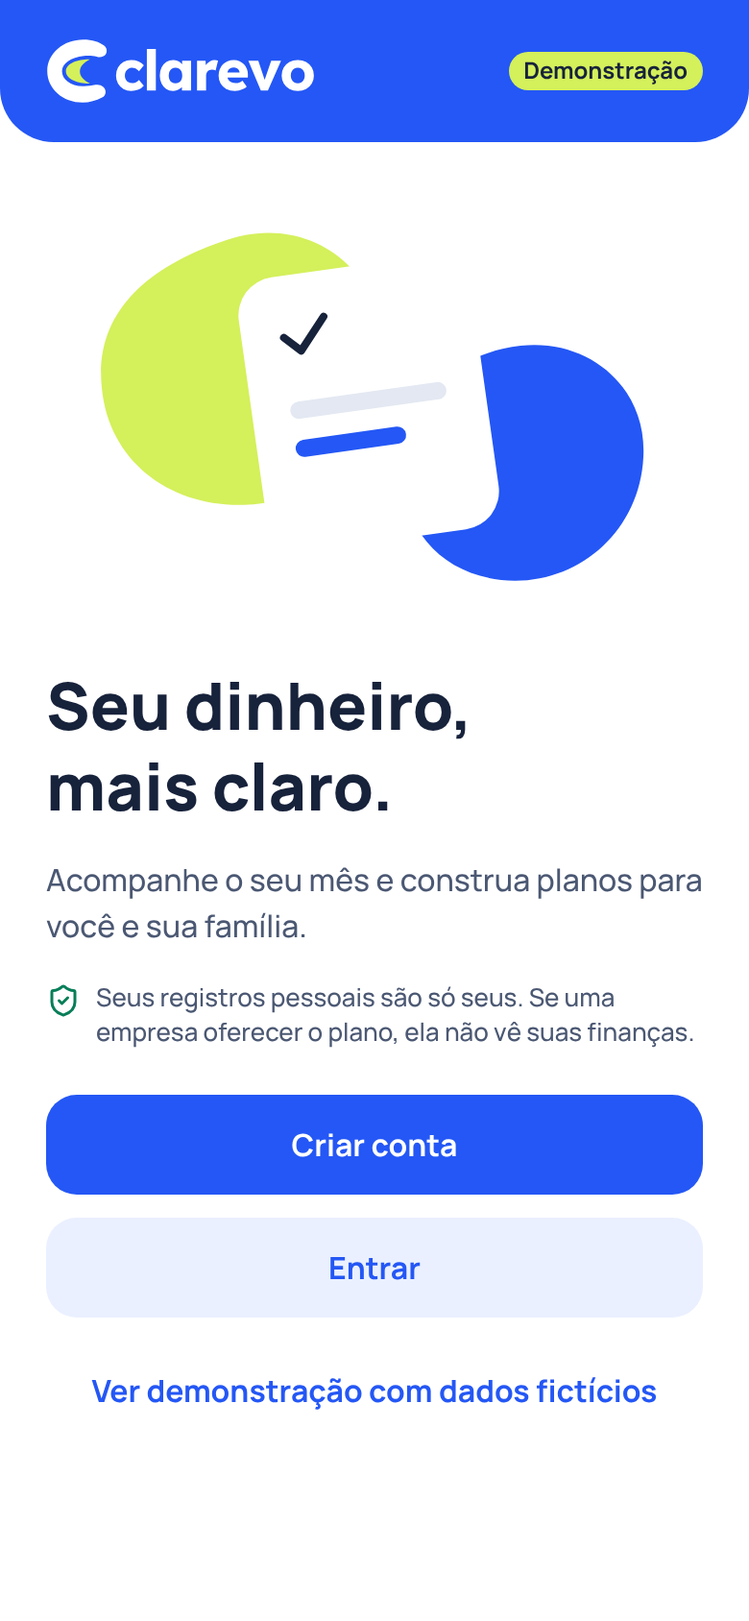
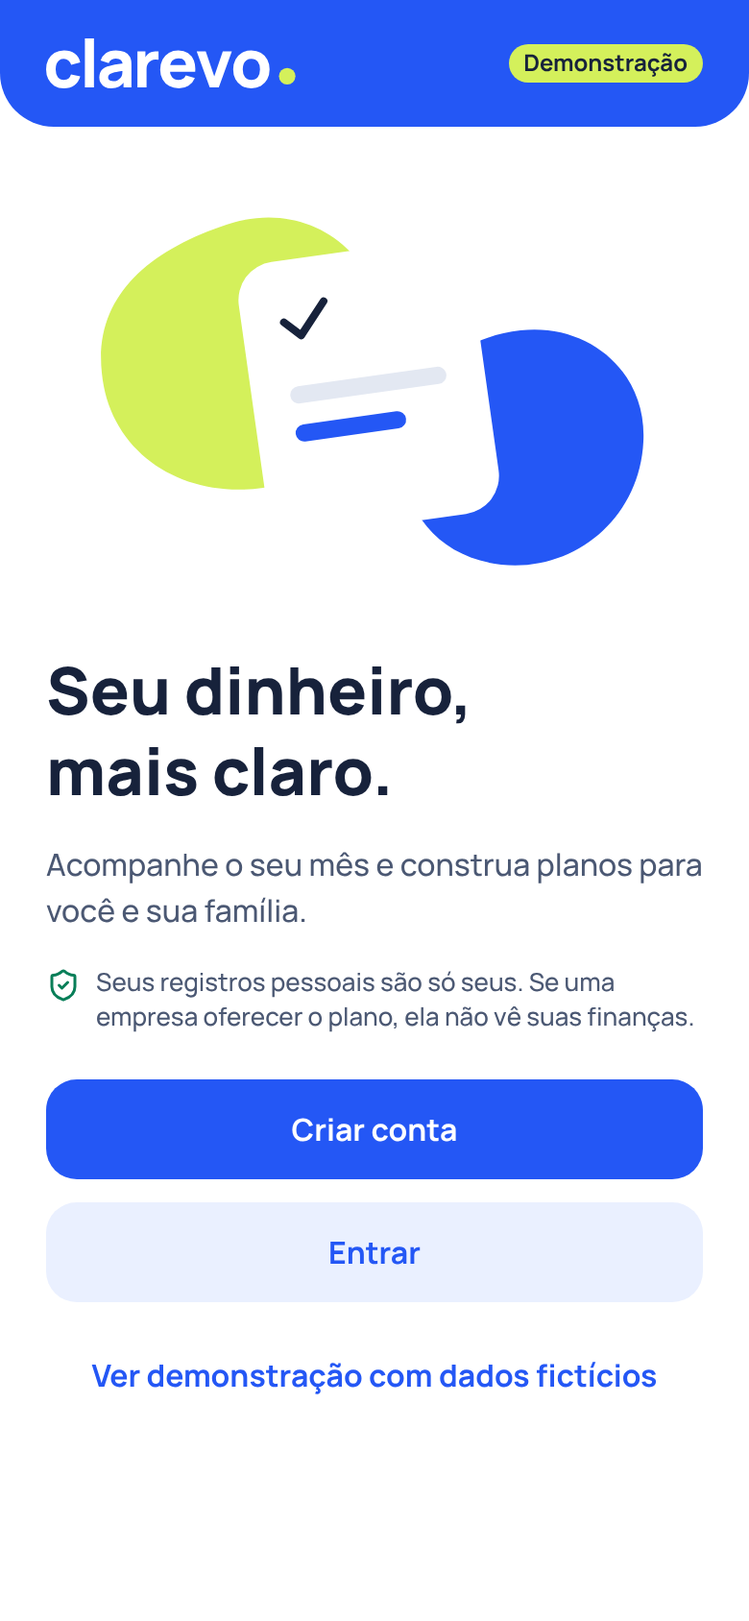
Marca: logotipo oficial "clarevo." com ponto lima
- Cabeçalhos e telas de entrada passam a usar o logotipo "clarevo."
  (minúsculas com ponto lima), como nas telas originais do app que Enzo
  aprovou. Desenhado com Manrope ExtraBold, espaçamento -4%.
- O símbolo C aberto continua como ícone do app e na abertura.
- docs/marca: arquivos clarevo-logotipo*.svg; assinaturas antigas
  (símbolo + nome em Lexend) retiradas. LEIAME, CLAUDE.md e decisão
  D-022 atualizados; telas originais guardadas em docs/referencias.

Claude-Session: https://claude.ai/code/session_01DJ8P9ioDFqVN7dR69gHQEe

diff --git a/apps/app/src/theme/logo-paths.ts b/apps/app/src/theme/logo-paths.ts
@@ -1,8 +1,14 @@
 /**
- * Logo Clarevo vetorizado a partir do conceito aprovado em 07/10/2026 (C aberto com crescente lima).
- * Fonte original: docs/marca/*.svg. Nome desenhado com Lexend Bold (licença OFL), aproximação a refinar.
+ * Marca Clarevo (docs/marca/*.svg).
+ * Logotipo oficial "clarevo." (D-022): nome em minúsculas com ponto lima, como nas telas originais do app.
+ * Desenhado com Manrope ExtraBold (licença OFL), espaçamento -4%. Símbolo C aberto com crescente lima (D-010): ícone do app.
  */
 export const LOGO_SYMBOL_C = 'M186 0C232 0 268 12 293 31C312 45 310 76 289 86C277 92 266 92 254 88C236 83 212 82 188 84C122 90 76 124 76 163C76 204 120 238 182 240C206 241 228 237 248 233C262 230 276 233 288 243C306 258 304 288 282 298C252 314 218 324 182 324C80 324 0 254 0 162C0 70 84 0 186 0Z';
 export const LOGO_SYMBOL_MOON = 'M220 102C166 100 96 120 96 163C96 206 166 228 220 226C190 210 168 190 168 164C168 138 190 118 220 102Z';
-export const LOGO_WORDMARK = 'M88.01523809523809 264.8952380952381Q65.72190476190477 264.8952380952381 48.060952380952386 254.47238095238095Q30.4 244.0495238095238 20.121904761904762 225.95428571428573Q9.843809523809524 207.85904761904763 9.843809523809524 184.98666666666668Q9.843809523809524 162.1142857142857 20.121904761904762 144.01904761904763Q30.4 125.92380952380952 48.060952380952386 115.50095238095238Q65.72190476190477 105.07809523809524 88.01523809523809 105.07809523809524Q108.57142857142857 105.07809523809524 125.79809523809524 112.31619047619049Q143.0247619047619 119.55428571428573 153.15809523809523 132.58285714285714L127.9695238095238 162.69333333333333Q123.91619047619048 158.0609523809524 118.4152380952381 154.00761904761907Q112.91428571428571 149.95428571428573 106.2552380952381 147.63809523809525Q99.59619047619047 145.32190476190476 92.35809523809523 145.32190476190476Q81.35619047619048 145.32190476190476 72.96000000000001 150.38857142857142Q64.56380952380952 155.4552380952381 59.93142857142857 164.43047619047618Q55.29904761904762 173.40571428571428 55.29904761904762 184.98666666666668Q55.29904761904762 195.98857142857145 60.076190476190476 204.96380952380952Q64.85333333333332 213.9390476190476 73.2495238095238 219.15047619047618Q81.64571428571428 224.36190476190475 92.35809523809523 224.36190476190475Q99.88571428571429 224.36190476190475 106.2552380952381 222.48000000000002Q112.6247619047619 220.59809523809525 117.98095238095237 216.83428571428573Q123.33714285714285 213.0704761904762 127.9695238095238 207.56952380952382L152.8685714285714 237.96952380952382Q143.0247619047619 250.41904761904763 125.50857142857143 257.65714285714284Q107.99238095238096 264.8952380952381 88.01523809523809 264.8952380952381ZM168.50285714285712 262.0V47.752380952380946H214.82666666666665V262.0ZM302.84190476190474 264.60571428571427Q283.44380952380953 264.60571428571427 268.24380952380955 254.32761904761904Q253.0438095238095 244.0495238095238 244.06857142857143 225.95428571428573Q235.09333333333333 207.85904761904763 235.09333333333333 184.98666666666668Q235.09333333333333 161.5352380952381 244.06857142857143 143.5847619047619Q253.0438095238095 125.63428571428571 268.67809523809524 115.35619047619048Q284.3123809523809 105.07809523809524 304.2895238095238 105.07809523809524Q315.2914285714286 105.07809523809524 324.4114285714286 108.26285714285714Q333.5314285714286 111.44761904761904 340.48 117.09333333333333Q347.42857142857144 122.73904761904762 352.3504761904762 130.12190476190477Q357.2723809523809 137.5047619047619 359.5885714285714 145.9009523809524L350.0342857142857 144.74285714285713V108.26285714285714H396.06857142857143V262.0H349.1657142857143V224.94095238095238L359.5885714285714 224.65142857142857Q357.2723809523809 232.75809523809525 352.06095238095236 239.99619047619046Q346.8495238095238 247.2342857142857 339.32190476190476 252.7352380952381Q331.7942857142857 258.2361904761905 322.52952380952377 261.4209523809524Q313.2647619047619 264.60571428571427 302.84190476190474 264.60571428571427ZM315.58095238095234 225.52Q326.2933333333333 225.52 334.11047619047616 220.59809523809525Q341.92761904761903 215.67619047619047 346.2704761904762 206.55619047619047Q350.61333333333334 197.43619047619046 350.61333333333334 184.98666666666668Q350.61333333333334 172.53714285714284 346.2704761904762 163.41714285714284Q341.92761904761903 154.29714285714286 334.11047619047616 149.2304761904762Q326.2933333333333 144.16380952380953 315.58095238095234 144.16380952380953Q305.15809523809526 144.16380952380953 297.48571428571427 149.2304761904762Q289.81333333333333 154.29714285714286 285.4704761904762 163.41714285714284Q281.127619047619 172.53714285714284 281.127619047619 184.98666666666668Q281.127619047619 197.43619047619046 285.4704761904762 206.55619047619047Q289.81333333333333 215.67619047619047 297.48571428571427 220.59809523809525Q305.15809523809526 225.52 315.58095238095234 225.52ZM426.7580952380952 262.0V108.26285714285714H470.7657142857143L472.79238095238094 158.35047619047617L464.1066666666667 148.79619047619047Q467.5809523809524 136.34666666666666 475.54285714285714 126.50285714285714Q483.5047619047619 116.65904761904761 494.21714285714285 110.86857142857143Q504.9295238095238 105.07809523809524 517.0895238095238 105.07809523809524Q522.3009523809524 105.07809523809524 526.7885714285715 105.94666666666667Q531.2761904761904 106.8152380952381 535.04 107.97333333333333L522.3009523809524 159.21904761904761Q519.1161904761905 157.19238095238097 513.76 155.88952380952384Q508.4038095238095 154.58666666666667 502.61333333333334 154.58666666666667Q496.24380952380955 154.58666666666667 490.74285714285713 156.75809523809522Q485.2419047619047 158.9295238095238 481.4780952380952 162.98285714285714Q477.7142857142857 167.03619047619048 475.54285714285714 172.53714285714287Q473.37142857142857 178.03809523809525 473.37142857142857 184.98666666666668V262.0ZM621.6076190476191 264.8952380952381Q596.1295238095238 264.8952380952381 577.3104761904763 254.61714285714285Q558.4914285714286 244.33904761904762 548.0685714285714 226.53333333333333Q537.6457142857143 208.72761904761904 537.6457142857143 185.8552380952381Q537.6457142857143 168.1942857142857 543.4361904761905 153.42857142857144Q549.2266666666667 138.66285714285715 559.6495238095238 127.80571428571429Q570.072380952381 116.94857142857143 584.4038095238095 111.01333333333334Q598.7352380952382 105.07809523809524 615.8171428571429 105.07809523809524Q632.0304761904762 105.07809523809524 645.4933333333333 110.86857142857143Q658.9561904761905 116.65904761904761 668.8 127.08190476190475Q678.6438095238095 137.5047619047619 683.8552380952381 151.69142857142856Q689.0666666666667 165.87809523809523 688.4876190476191 182.6704761904762L688.1980952380952 195.12H565.7295238095238L559.0704761904763 169.06285714285713H650.5600000000001L645.6380952380953 174.56380952380954V168.77333333333334Q645.0590476190476 161.5352380952381 641.1504761904762 155.88952380952384Q637.2419047619048 150.24380952380955 630.872380952381 147.05904761904765Q624.5028571428571 143.87428571428572 616.3961904761904 143.87428571428572Q605.104761904762 143.87428571428572 597.1428571428571 148.36190476190478Q589.1809523809524 152.84952380952382 585.127619047619 161.3904761904762Q581.0742857142857 169.93142857142857 581.0742857142857 182.38095238095238Q581.0742857142857 195.12 586.4304761904762 204.52952380952382Q591.7866666666666 213.9390476190476 602.0647619047619 219.15047619047618Q612.3428571428572 224.36190476190475 626.5295238095239 224.36190476190475Q636.3733333333333 224.36190476190475 644.0457142857142 221.46666666666664Q651.7180952380952 218.57142857142856 660.6933333333334 211.62285714285713L682.407619047619 242.31238095238095Q673.432380952381 250.12952380952382 663.2990476190477 255.05142857142857Q653.1657142857143 259.97333333333336 642.5980952380953 262.4342857142857Q632.0304761904762 264.8952380952381 621.6076190476191 264.8952380952381ZM755.0780952380952 262.0 690.8038095238096 108.26285714285714H742.0495238095239L780.2666666666667 223.20380952380953L768.9752380952381 224.36190476190475L808.3504761904762 108.26285714285714H859.0171428571429L791.5580952380952 262.0ZM945.295238095238 264.8952380952381Q921.2647619047618 264.8952380952381 902.5904761904761 254.47238095238095Q883.9161904761904 244.0495238095238 873.0590476190475 226.0990476190476Q862.2019047619048 208.14857142857142 862.2019047619048 184.98666666666668Q862.2019047619048 161.8247619047619 873.0590476190475 143.87428571428572Q883.9161904761904 125.92380952380952 902.5904761904761 115.50095238095238Q921.2647619047618 105.07809523809524 945.295238095238 105.07809523809524Q969.3257142857142 105.07809523809524 988.0 115.50095238095238Q1006.6742857142857 125.92380952380952 1017.3866666666665 143.87428571428572Q1028.0990476190475 161.8247619047619 1028.0990476190475 184.98666666666668Q1028.0990476190475 208.14857142857142 1017.3866666666665 226.0990476190476Q1006.6742857142857 244.0495238095238 988.0 254.47238095238095Q969.3257142857142 264.8952380952381 945.295238095238 264.8952380952381ZM945.295238095238 224.94095238095238Q955.7180952380952 224.94095238095238 963.8247619047619 219.7295238095238Q971.9314285714286 214.51809523809524 976.5638095238095 205.54285714285714Q981.1961904761904 196.56761904761905 980.9066666666666 184.98666666666668Q981.1961904761904 173.40571428571428 976.5638095238095 164.28571428571428Q971.9314285714286 155.16571428571427 963.8247619047619 149.9542857142857Q955.7180952380952 144.74285714285713 945.295238095238 144.74285714285713Q934.8723809523809 144.74285714285713 926.6209523809523 149.9542857142857Q918.3695238095238 155.16571428571427 913.7371428571428 164.28571428571428Q909.1047619047619 173.40571428571428 909.3942857142856 184.98666666666668Q909.1047619047619 196.56761904761905 913.7371428571428 205.54285714285714Q918.3695238095238 214.51809523809524 926.6209523809523 219.7295238095238Q934.8723809523809 224.94095238095238 945.295238095238 224.94095238095238Z';
-export const LOGO_WORDMARK_WIDTH = 1027.8;
+
+/** Logotipo "clarevo.": contorno do nome (sem o ponto), em unidades da caixa LOGOTYPE_WIDTH × LOGOTYPE_HEIGHT. */
+export const LOGOTYPE_WORD = 'M536 1500Q368 1500 248 1425Q128 1350 64 1221Q0 1092 0 930Q0 766 66 637Q133 508 254 434Q375 360 540 360Q731 360 860 456Q990 553 1026 720L754 792Q730 708 670 661Q611 614 536 614Q450 614 395 656Q340 697 314 768Q288 840 288 930Q288 1071 350 1158Q413 1246 536 1246Q628 1246 676 1204Q724 1162 748 1084L1026 1142Q980 1314 852 1407Q724 1500 536 1500ZM1166 1470V0H1438V1470ZM1958 1500Q1842 1500 1762 1456Q1681 1411 1640 1336Q1598 1262 1598 1172Q1598 1097 1621 1035Q1644 973 1696 926Q1747 878 1834 846Q1894 824 1977 807Q2060 790 2165 774Q2270 759 2396 740L2298 794Q2298 698 2252 653Q2206 608 2098 608Q2038 608 1973 637Q1908 666 1882 740L1636 662Q1677 528 1790 444Q1903 360 2098 360Q2241 360 2352 404Q2463 448 2520 556Q2552 616 2558 676Q2564 736 2564 810V1470H2326V1248L2360 1294Q2281 1403 2190 1452Q2098 1500 1958 1500ZM2016 1286Q2091 1286 2142 1260Q2194 1233 2224 1199Q2255 1165 2266 1142Q2287 1098 2290 1040Q2294 981 2294 942L2374 962Q2253 982 2178 996Q2103 1009 2057 1020Q2011 1031 1976 1044Q1936 1060 1912 1078Q1887 1097 1876 1119Q1864 1141 1864 1168Q1864 1205 1882 1232Q1901 1258 1935 1272Q1969 1286 2016 1286ZM2744 1470V390H2984V654L2958 620Q2979 564 3014 518Q3049 472 3100 442Q3139 418 3185 404Q3231 391 3280 388Q3329 384 3378 390V644Q3333 630 3274 634Q3214 639 3166 662Q3118 684 3085 720Q3052 757 3035 806Q3018 856 3018 918V1470ZM3990 1500Q3824 1500 3698 1428Q3571 1357 3500 1232Q3428 1106 3428 944Q3428 767 3498 636Q3568 505 3691 432Q3814 360 3974 360Q4144 360 4263 440Q4382 520 4439 665Q4496 810 4479 1006H4210V906Q4210 741 4158 668Q4105 596 3986 596Q3847 596 3782 680Q3716 765 3716 930Q3716 1081 3782 1164Q3847 1246 3974 1246Q4054 1246 4111 1211Q4168 1176 4198 1110L4470 1188Q4409 1336 4278 1418Q4146 1500 3990 1500ZM3632 1006V804H4348V1006ZM4916 1470 4524 390H4796L5052 1138L5308 390H5580L5188 1470ZM6166 1500Q6003 1500 5880 1427Q5757 1354 5688 1226Q5620 1097 5620 930Q5620 761 5690 632Q5760 504 5883 432Q6006 360 6166 360Q6329 360 6452 433Q6576 506 6645 634Q6714 763 6714 930Q6714 1098 6644 1226Q6575 1355 6452 1428Q6328 1500 6166 1500ZM6166 1246Q6297 1246 6362 1158Q6426 1069 6426 930Q6426 786 6360 700Q6295 614 6166 614Q6077 614 6020 654Q5963 694 5936 765Q5908 836 5908 930Q5908 1075 5974 1160Q6039 1246 6166 1246Z';
+export const LOGOTYPE_WIDTH = 7492;
+export const LOGOTYPE_HEIGHT = 1500;
+/** Ponto lima do logotipo, alinhado perto da linha de base. */
+export const LOGOTYPE_DOT = { cx: 7243, cy: 1135, r: 248 };

diff --git a/apps/app/src/components/brand.tsx b/apps/app/src/components/brand.tsx
@@ -1,14 +1,14 @@
 import { StyleSheet, View } from 'react-native';
 import Animated, { ReduceMotion, ZoomIn } from 'react-native-reanimated';
-import Svg, { Path } from 'react-native-svg';
+import Svg, { Circle, Path } from 'react-native-svg';
 
-import { LOGO_SYMBOL_C, LOGO_SYMBOL_MOON, LOGO_WORDMARK, LOGO_WORDMARK_WIDTH } from '@/theme/logo-paths';
+import { LOGO_SYMBOL_C, LOGO_SYMBOL_MOON, LOGOTYPE_DOT, LOGOTYPE_HEIGHT, LOGOTYPE_WIDTH, LOGOTYPE_WORD } from '@/theme/logo-paths';
 import { colors } from '@/theme/tokens';
 
 type Variant = 'cor' | 'reverso' | 'uma-cor';
 
 const PALETTE: Record<Variant, { c: string; moon: string; word: string }> = {
-  cor: { c: colors.brand, moon: colors.accent, word: colors.text },
+  cor: { c: colors.brand, moon: colors.accent, word: colors.brand },
   reverso: { c: colors.textOnBrand, moon: colors.accent, word: colors.textOnBrand },
   'uma-cor': { c: colors.text, moon: colors.text, word: colors.text },
 };
@@ -44,17 +44,17 @@ export function LogoSymbol({ size = 32, variant = 'cor', animated }: { size?: nu
   );
 }
 
-/** Assinatura horizontal: símbolo + nome. */
-export function Logo({ height = 32, variant = 'cor' }: { height?: number; variant?: Variant }) {
+/**
+ * Logotipo oficial "clarevo." (D-022): nome em minúsculas e ponto lima, como nas telas originais.
+ * `height` é a altura da caixa do nome (do topo do "l" à linha de base).
+ */
+export function Logo({ height = 22, variant = 'cor' }: { height?: number; variant?: Variant }) {
   const p = PALETTE[variant];
-  const gap = 34;
-  const vbw = 316 + gap + LOGO_WORDMARK_WIDTH + 12;
   return (
     <View accessible accessibilityRole="image" accessibilityLabel="Clarevo">
-      <Svg width={height * (vbw / 336)} height={height} viewBox={`-6 -6 ${vbw} 336`}>
-        <Path d={LOGO_SYMBOL_C} fill={p.c} />
-        <Path d={LOGO_SYMBOL_MOON} fill={p.moon} />
-        <Path d={LOGO_WORDMARK} fill={p.word} transform={`translate(${310 + gap} 0)`} />
+      <Svg width={height * (LOGOTYPE_WIDTH / LOGOTYPE_HEIGHT)} height={height} viewBox={`0 0 ${LOGOTYPE_WIDTH} ${LOGOTYPE_HEIGHT}`}>
+        <Path d={LOGOTYPE_WORD} fill={p.word} />
+        <Circle cx={LOGOTYPE_DOT.cx} cy={LOGOTYPE_DOT.cy} r={LOGOTYPE_DOT.r} fill={p.moon} />
       </Svg>
     </View>
   );

diff --git a/apps/app/src/components/header.tsx b/apps/app/src/components/header.tsx
@@ -21,11 +21,11 @@ const focusOnBrand = { outlineWidth: 3, outlineColor: colors.accent, outlineStyl
 /** Logo reverso, selo de demonstração e acesso à Conta (perfil, segurança e benefício). */
 function BrandRow() {
   const { user, auth } = useSession();
-  // Abaixo de 360 px, logo, selo de demonstração e avatar não cabem lado a lado no tamanho normal.
+  // Abaixo de 360 px, logotipo, selo de demonstração e avatar não cabem lado a lado no tamanho normal.
   const narrow = useWindowDimensions().width < 360;
   return (
     <View style={[styles.top, narrow && { gap: space[2] }]}>
-      <Logo height={narrow ? 24 : 32} variant="reverso" />
+      <Logo height={narrow ? 20 : 24} variant="reverso" />
       <View style={[styles.topRight, narrow && { gap: space[2] }]}>
         {auth.mode === 'demo' ? <DemoPill /> : null}
         <Pressable

diff --git a/apps/app/src/components/auth-shell.tsx b/apps/app/src/components/auth-shell.tsx
@@ -41,7 +41,7 @@ export function AuthShell({
               <ArrowLeft size={22} color={colors.textOnBrand} />
             </Pressable>
           ) : null}
-          <Logo height={34} variant="reverso" />
+          <Logo height={26} variant="reverso" />
           <View style={{ flex: 1 }} />
           {auth.mode === 'demo' ? <DemoPill /> : null}
         </View>

diff --git a/docs/00_VISAO_E_DECISOES.md b/docs/00_VISAO_E_DECISOES.md
@@ -21,7 +21,7 @@ Beleza visual, fluidez de uso e informação útil têm o mesmo peso.
 | D-007 | 07/10/2026 | Exclusão de registro é lógica (deleted_at); autoria é imutável. | Instruções §6, CL C003 |
 | D-008 | 07/10/2026 | Fora do primeiro ciclo: integração bancária, WhatsApp, IA, cartões, compromissos (cadastro; ver D-020), metas, convites familiares, cobrança, painel de empresas. | Primeiro ciclo v1.0 |
 | D-009 | 07/10/2026 | Repositório próprio `enzofishvelasquez-creator/clarevo`, separado do Bíos. | Enzo |
-| D-010 | 07/10/2026 | Logo: C aberto azul com crescente lima, vetorizado a partir da imagem aprovada (`docs/marca/`). Nome desenhado com Lexend Bold (OFL) como aproximação; refinamento tipográfico pendente. | Logo aprovado, CL-V009 |
+| D-010 | 07/10/2026 | Logo: C aberto azul com crescente lima, vetorizado a partir da imagem aprovada (`docs/marca/`). Nome desenhado com Lexend Bold (OFL) como aproximação. Em 08/10/2026 o nome passou ao logotipo "clarevo." (D-022) e o símbolo ficou como ícone. | Logo aprovado, CL-V009 |
 | D-011 | 07/10/2026 | Neste ciclo só existem registros **realizados** (gasto pago e renda recebida). Data DD/MM/AAAA, nunca futura; descrição de 1 a 80 caracteres; limite de R$ 9.999.999,99 por registro; categoria opcional ("Sem categoria"). | Primeiro ciclo v1.0, CL C002 |
 | D-012 | 07/10/2026 | Escrita só por funções do banco com chave de idempotência por pessoa e versão do registro; leitura filtrada por permissão. | CL C006 |
 | D-013 | 07/10/2026 | Sem Supabase configurado, o app roda em demonstração (acesso simulado, selo visível). Conta nova nunca recebe dados fictícios. | CL C001 |
@@ -33,6 +33,7 @@ Beleza visual, fluidez de uso e informação útil têm o mesmo peso.
 | D-019 | 07/10/2026 | Depois de salvar, editar ou excluir, o Resumo mostra por alguns segundos o efeito no total ("+ R$ 80,00" em Pago), sem animar a contagem do valor. | CL-V008 |
 | D-020 | 08/10/2026 | Contas a pagar entram no ciclo atual, no contexto Pessoal, e substituem "compromissos (cadastro)" de D-008. Inclui: anotar, editar e excluir conta a pagar (descrição, valor previsto, vencimento e categoria opcional); marcar como paga; desfazer o pagamento; lista "Contas a pagar" com vencidas, a vencer, pagas do mês e próximos meses; card "Ainda a pagar" no Resumo com o atalho "Anotar conta a pagar"; atalho "Adicionar a conta do próximo mês" a partir de uma conta paga; aviso no formulário quando a descrição fala em fatura ou cartão. As regras no banco já valem para a Família, sem tela. Na demonstração, "Fatura do cartão" vira "Condomínio" (R$ 500, 20/10) e entra "Seguro do carro" (R$ 300, 10/11); outubro continua com R$ 650 a pagar. Fica fora nesta etapa: recorrência automática e lembretes (P-011), pagamento parcial, juros e multa em registro próprio, código de boleto e Pix (P-013), pagamento pelo app, contas a receber previstas, interface na Família (P-012) e o status "cancelado". Continuam fora: integração bancária, cartões, metas, convites familiares, cobrança, painel de empresas e IA. O `CLAUDE.md` foi atualizado (funções que gravam e "Fora do ciclo atual"). | Enzo, 08/10/2026: "sim, junta na main e segue com contas a pagar". A frase não fala do `CLAUDE.md`: ele foi atualizado para refletir D-020 pela regra dele mesmo, segundo a qual prevalecem as decisões mais recentes de Enzo, e não por uma confirmação à parte |
 | D-021 | 08/10/2026 | Regras de contas a pagar. (1) Marcar como paga cria, na mesma operação do banco (`pay_commitment`), um único gasto realizado com o valor e a data efetivamente pagos (data até hoje), a conta de saída, a categoria e a descrição da conta a pagar, e muda a conta a pagar para paga; o gasto entra em Pago do mês da data do pagamento. Na lista "Contas a pagar", a conta paga aparece em "Pagas" no mês do vencimento e no mês da data do pagamento (nos dois, quando são diferentes), sem mudar nenhum total. O valor pago pode diferir do previsto e sempre quita a conta inteira. (2) Desfazer o pagamento (`undo_commitment_payment`) ou excluir esse gasto exclui o gasto logicamente (o vínculo fica como rastro) e reabre a conta a pagar na mesma operação. (3) Conta paga não é editada nem excluída sem antes desfazer o pagamento; o gasto gerado continua editável, e editá-lo soma 1 à versão da conta a pagar sem mudar o previsto. (4) Vencida é calculada (em aberto com vencimento antes de hoje, no fuso da pessoa), nunca gravada. (5) No mês corrente, "Ainda a pagar neste mês" soma as contas em aberto com vencimento no mês e as vencidas de meses anteriores ainda em aberto (mostradas em linha própria); nos outros meses, soma as em aberto com vencimento naquele mês. É estoque em aberto hoje, não fluxo, e o banco repete a regra em `month_to_pay`. Contas a pagar nunca entram em Recebido, Pago ou Diferença. (6) Vencimento aceito de 1 ano antes até 2 anos depois de hoje, conferido só quando o vencimento é novo ou muda. (7) Contas a pagar só são gravadas por `create_commitment`, `update_commitment`, `delete_commitment`, `pay_commitment` e `undo_commitment_payment`, com as garantias de D-012; `pay_commitment` e `undo_commitment_payment` são as únicas funções, além de `create_record`, `update_record` e `delete_record`, que gravam em registros realizados. O banco garante, no fim de cada transação, que conta paga tem exatamente um gasto vivo vinculado, do mesmo contexto, e conta em aberto nenhum, inclusive quando alguém apaga fisicamente o gasto vivo fora das funções (apagar o contexto inteiro continua possível). Para reconhecer uma repetição, as cinco funções de contas a pagar comparam os argumentos codificados em JSON (texto escapado, nulo diferente de vazio, data em ISO), então uma barra vertical ("\|") na descrição ou na categoria não faz pedidos diferentes parecerem repetição; as funções de registro mantêm o formato da migração 0001. (8) Versão ausente é recusada como versão desatualizada, em registros e em contas a pagar. (9) Em uma conta paga, o atalho "Adicionar a conta do próximo mês" confere antes as contas do mês do vencimento seguinte, em aberto ou pagas (excluídas não contam), com o mesmo vencimento e a mesma descrição (sem diferenciar maiúsculas e minúsculas nem espaços nas pontas); se achar uma, mostra que a conta daquele mês já foi anotada e o caminho para ela, em vez do atalho. (10) Vencimento em branco mostra "Informe a data de vencimento, como 15/10/2026." e vencimento preenchido e inválido continua com "Confira a data informada." O texto novo é só do app: o banco recusa os dois como `data_invalida`. (11) No card "Ainda a pagar" do mês corrente, quando todas as contas do total estão vencidas, a linha principal ganha o destaque de vencida (ícone, cor de erro e negrito). | Proposta Claude, revisável; (9), (10), (11) e os acréscimos em (1) e (7) vêm da revisão de 08/10/2026 |
+| D-022 | 08/10/2026 | Logotipo oficial: "clarevo." em minúsculas com ponto lima no fim, como nas telas originais do app. Aparece nos cabeçalhos e nas telas de entrada (`docs/marca/clarevo-logotipo*.svg`; telas originais em `docs/referencias/telas_originais_*.png`). O símbolo C aberto (D-010) continua como ícone do app e na abertura. As telas originais seguem como base visual: cabeçalho azul, seletor Pessoal/Família, Diferença do mês, Recebido e Pago, "Anotar gasto", "Ainda a pagar", pagamentos, card lima de educação, "Quem vê estes dados?" e as quatro abas. | Enzo, 08/10/2026: "eu amei o Clarevo. (Com esse ponto no final) Assim como está nas imagens [...] Mantém ele como oficial." |
 
 ## Decisões pendentes (alteram o que construímos)
 

diff --git a/docs/marca/LEIAME.md b/docs/marca/LEIAME.md
@@ -1,17 +1,21 @@
 # Marca Clarevo
 
-07/10/2026. Vetorizado a partir do logo aprovado por Enzo (C aberto azul com crescente lima). Referência original em `docs/referencias/`.
+**Logotipo oficial (08/10/2026, D-022):** "clarevo." em minúsculas com o ponto lima no fim, como nas telas originais do app que Enzo aprovou. É o que aparece nos cabeçalhos e nas telas de entrada. O ponto faz parte da marca: não remover, não trocar a cor e não usar o nome sem ele.
+
+**Símbolo (07/10/2026, D-010):** C aberto azul com crescente lima, vetorizado a partir do logo aprovado por Enzo. Fica para o ícone do app, a abertura e espaços pequenos. Referência original em `docs/referencias/`.
 
 | Arquivo | Uso |
 |---|---|
-| `clarevo-assinatura.svg` | Assinatura principal em fundo claro |
-| `clarevo-assinatura-reversa.svg` | Sobre o azul (cabeçalhos do app) |
-| `clarevo-assinatura-uma-cor.svg` | Impressão ou fundos onde a cor não é possível |
-| `clarevo-simbolo*.svg` | Só o símbolo, nas mesmas três versões |
+| `clarevo-logotipo-reverso.svg` | Logotipo sobre o azul (cabeçalhos do app e telas de entrada) |
+| `clarevo-logotipo.svg` | Logotipo em fundo claro (nome azul, ponto lima) |
+| `clarevo-logotipo-uma-cor.svg` | Impressão ou fundos onde a cor não é possível |
+| `clarevo-simbolo*.svg` | Só o símbolo, em cor, reverso e uma cor |
 | `icone-app.svg`, `icone-app-1024.png` | Ícone do app (iOS e lojas) |
 | `icone-android-*.svg` | Ícone adaptável do Android (frente e versão monocromática) |
 | `icone-splash.svg` | Abertura do app sobre fundo azul |
 
 Cores: azul `#2457F5`, lima `#D4F05B`, texto `#17223B`.
 
-O nome "clarevo" foi desenhado com a fonte Lexend Bold (licença OFL), a mais próxima do original entre as testadas. Refinar a tipografia (ou encomendar um desenho próprio) é uma decisão pendente. O símbolo foi conferido em 16, 24, 32 e 48 px. Esta vetorização não comprova registro ou exclusividade da marca.
+O logotipo foi desenhado com a fonte Manrope ExtraBold (licença OFL, a mesma dos textos do app), com espaçamento entre letras de -4% e o ponto com 46% da altura das letras minúsculas. Foi a mais próxima das telas originais entre as fontes testadas (Lexend, Sora, Outfit e Urbanist). O ponto lima sobre fundo branco tem pouco contraste: em fundo claro, ele é decorativo e o nome continua legível. Encomendar um desenho próprio do nome continua possível.
+
+As assinaturas antigas (símbolo + nome em Lexend Bold) foram retiradas em 08/10/2026 e ficam só no histórico do repositório. O símbolo foi conferido em 16, 24, 32 e 48 px. Esta vetorização não comprova registro ou exclusividade da marca.

diff --git a/CLAUDE.md b/CLAUDE.md
@@ -3,7 +3,7 @@
 - Responder e escrever textos do produto em português do Brasil, linguagem neutra de gênero, sem travessões longos e sem a expressão "fazer sentido".
 - Produto novo: não usar marca, ativos, dados ou código do Bíos.
 - Referências vigentes em `docs/referencias/`. Em divergência, prevalecem as decisões mais recentes de Enzo e o "Primeiro ciclo" (`CLAREVO_Primeiro_Ciclo_para_Claude_v1.0.md`). Registrar novas decisões em `docs/00_VISAO_E_DECISOES.md`.
-- Identidade: azul #2457F5, lima #D4F05B, texto #17223B; logo C aberto em `docs/marca/` (não redesenhar). Preservar a estrutura do Resumo.
+- Identidade: azul #2457F5, lima #D4F05B, texto #17223B. Logotipo oficial "clarevo." (minúsculas com ponto lima) nos cabeçalhos; símbolo C aberto só como ícone (`docs/marca/`, não redesenhar). Seguir as telas originais em `docs/referencias/` e preservar a estrutura do Resumo.
 - Dinheiro sempre em centavos inteiros. Regras financeiras em `packages/core`, repetidas e validadas no banco.
 - Autorização é validada no banco (RLS e funções). Escrita de registros só pelas funções `create_record`, `update_record`, `delete_record`, `pay_commitment`, `undo_commitment_payment`; de contas a pagar só por `create_commitment`, `update_commitment`, `delete_commitment`, `pay_commitment`, `undo_commitment_payment` (idempotência e versão). Toda mudança de esquema vem com teste em `supabase/tests`.
 - Dados de demonstração são fictícios e identificados. Conta nova nunca recebe dados de exemplo.
